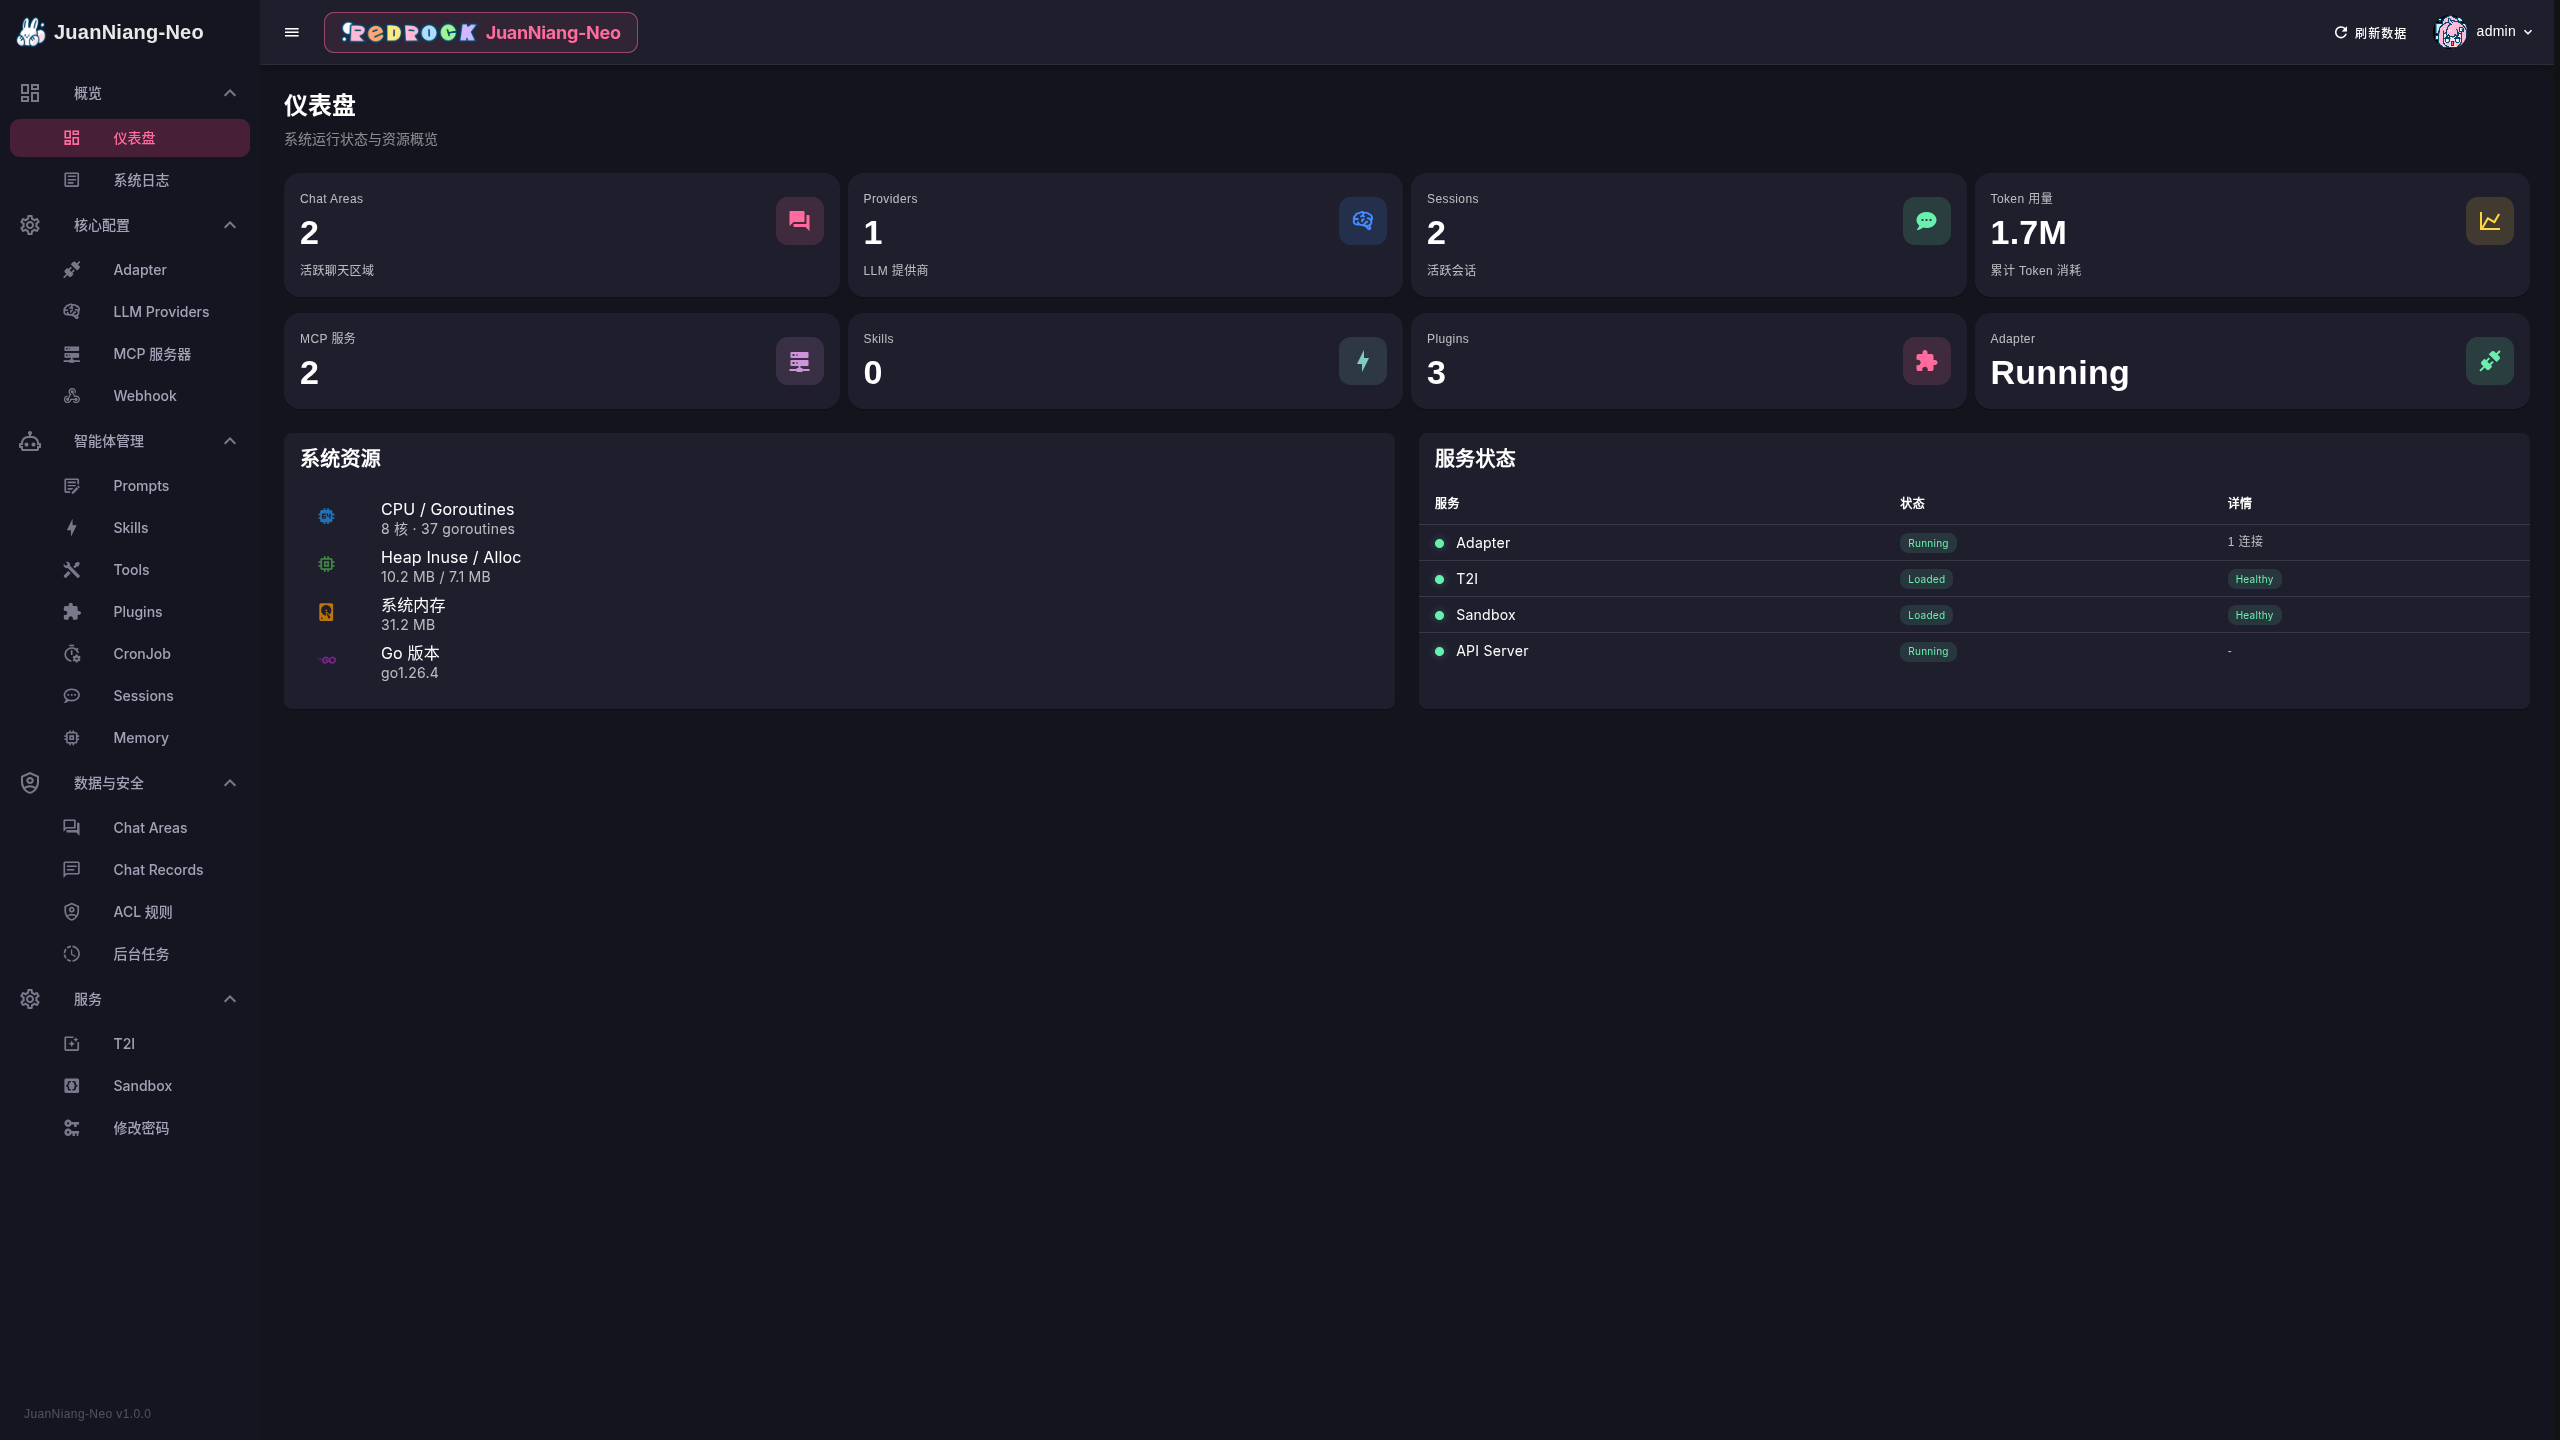
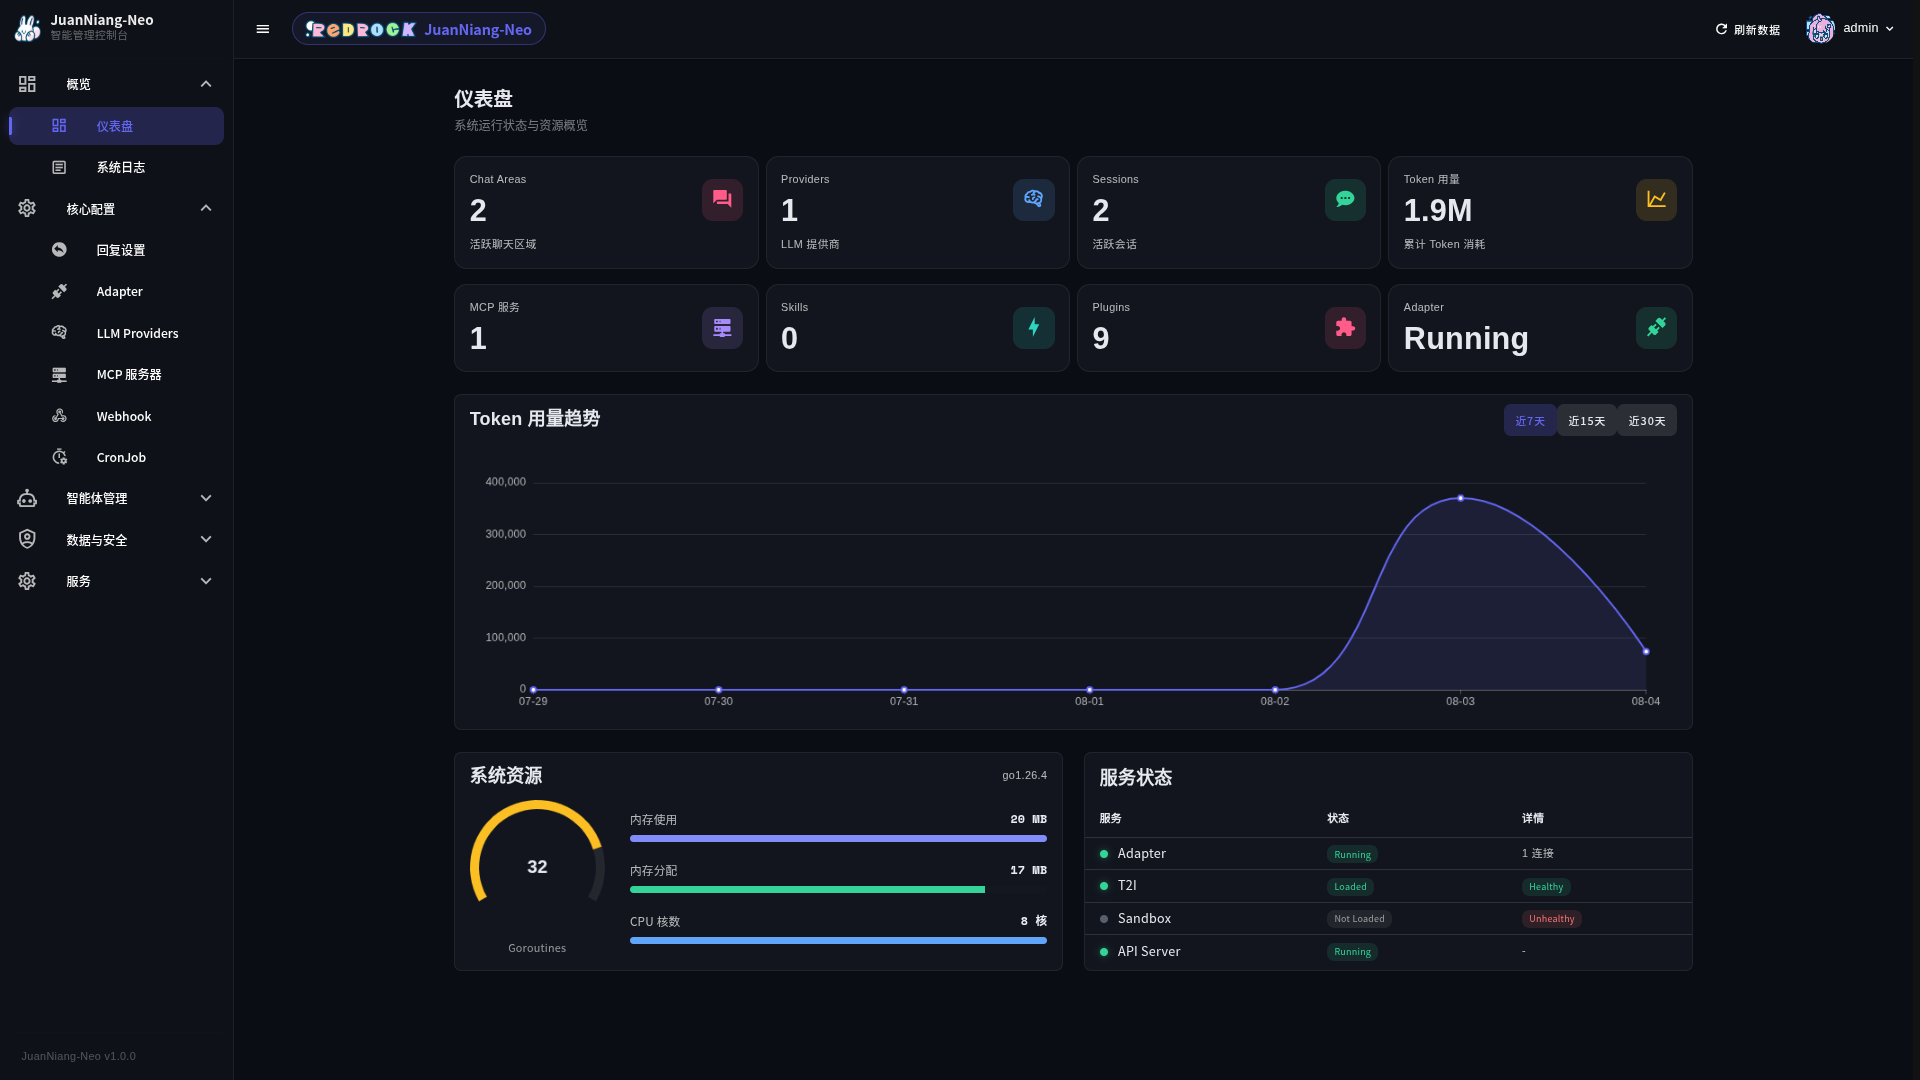
📝 Update README.md

diff --git a/README.md b/README.md
@@ -32,7 +32,7 @@
 
 - **Chat**
 
-<img src="docs/img/chat.jpg" alt="login-ui" style="zoom: 25%;" />
+<img src="docs/img/chat.png" alt="login-ui" style="zoom: 100%;" />
 
 ## 文档导航
 
